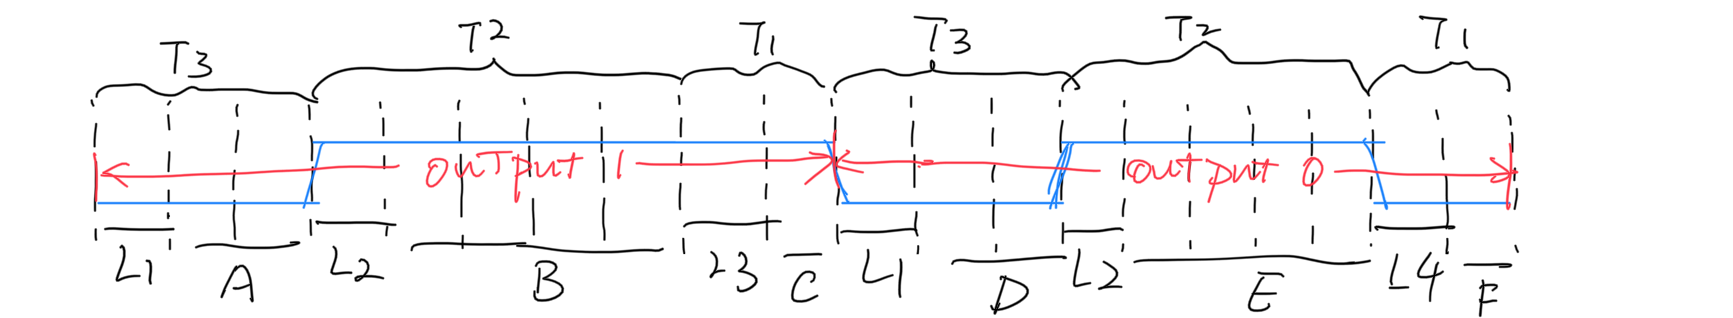
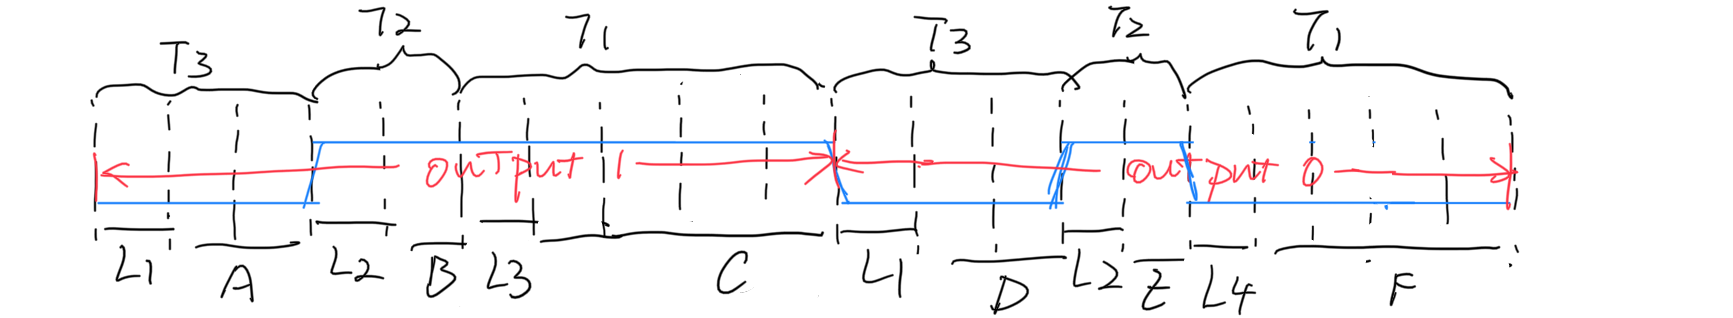
update 3.5, 3.6&3.7

diff --git a/README.md b/README.md
@@ -215,9 +215,31 @@ The output should be going are below:
 
 ![image-20221016214832435](README.assets/image-20221016214832435.png)
 
-And the state is shown in the form:
+And the state is shown in the form ([state.xlsx](state.xlsx)):
 
-![image-20221016234619253](README.assets/image-20221016234619253.png)
+![image-20221017201449364](README.assets/image-20221017201449364.png)
+
+We can clearly seen from the diagram and form that, each bit need 10 clock cycle to create a custom wave for transmission. Thus, 
+
+
+
+
+
+# 3.6&3.7 Zoom in and Timing Diagram
+
+Now let's stretch the time to 4 bits. Suppose that we are first sending blue and then green and then a random color and focus on the point that finish the blue transmission. In this case, we can see more changes in different component. 
+
+0000 0000 0000 0000 1111 11**11 00**00 0000 
+
+1111 1111 0000 0000 0000 0000 0000 0000 
+
+1010 1000 1010 1110 0010 1011 0000 0000
+
+The observed bits is bolded as shown. The first 32 bits are blue bits, and then the following 32 bits are the green bits, and the next 32 bits are still green.
+
+And the timing diagram is shown below ([zoom in.xlsx](zoom in.xlsx))
+
+![image-20221017215825118](README.assets/image-20221017215825118.png)
 
 
 
@@ -233,11 +255,11 @@ This project design a system that read from the USB console and give the corresp
 
 And most of code is based on [PICO example of ws2812](https://github.com/raspberrypi/pico-examples/tree/master/pio/ws2812).
 
-<img src="README.assets/image-20221016231412516.png" alt="image-20221016231412516" style="zoom:33%;" />
+<img src="README.assets/g.jpg" alt="g" style="zoom: 25%;" />
 
-<img src="README.assets/937bc3bda75fe2d061dc31838b41f30.jpg" alt="937bc3bda75fe2d061dc31838b41f30" style="zoom:33%;" />
+<img src="README.assets/r.jpg" alt="r" style="zoom: 25%;" />
 
-<img src="README.assets/b601563b1666c1eaec0956a4026c2ec.jpg" alt="b601563b1666c1eaec0956a4026c2ec" style="zoom:33%;" />
+<img src="README.assets/b.jpg" alt="b" style="zoom: 25%;" />
 
 ## 4.2 Features
 
